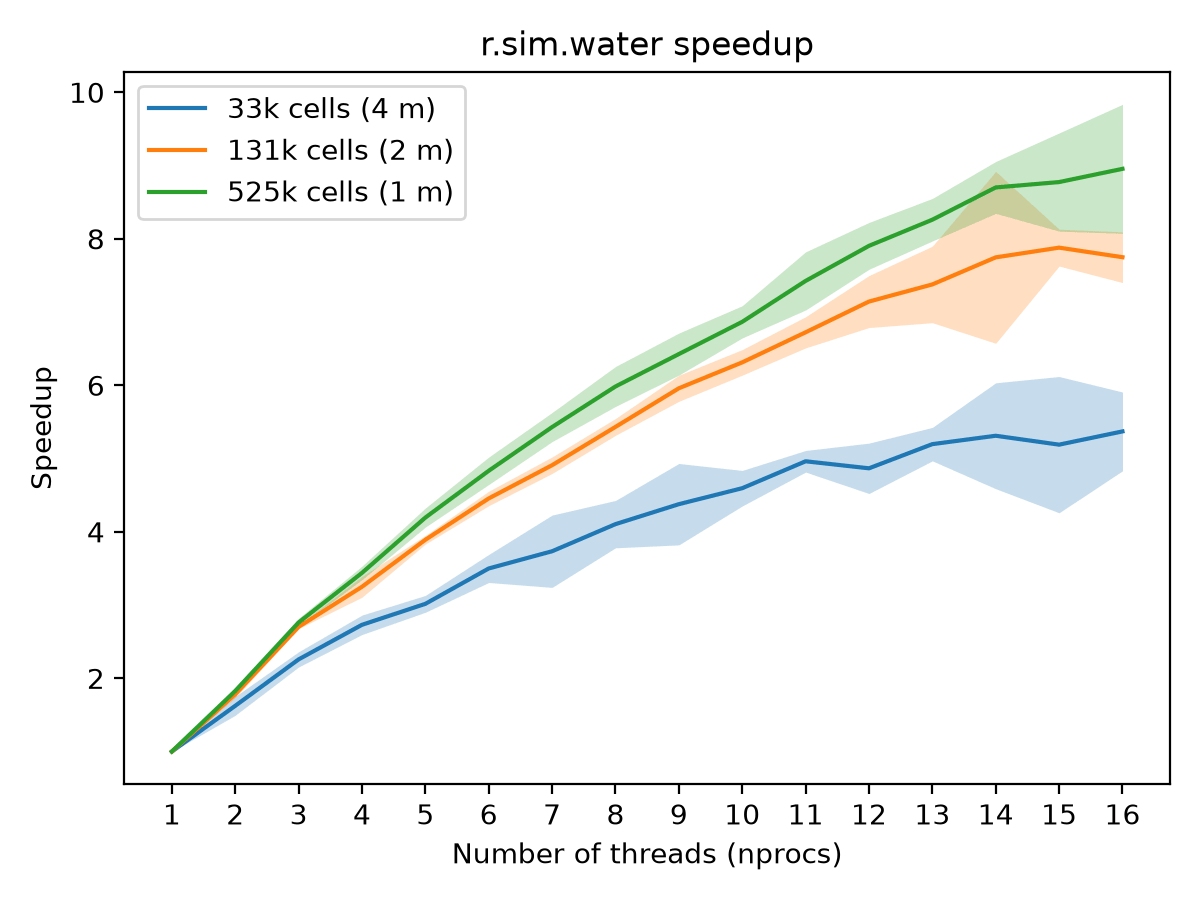
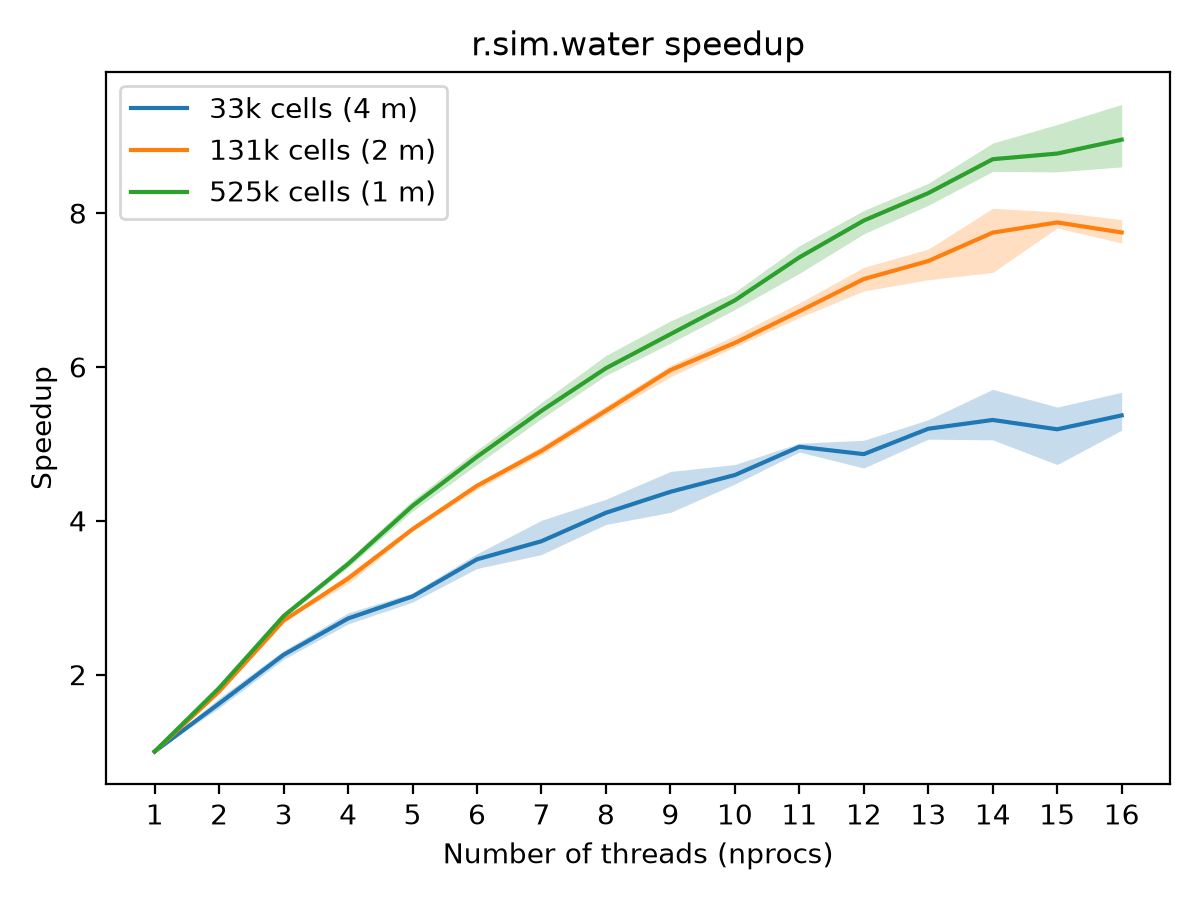
r.sim.water: Shade the range of the benchmark runs
With 3 runs per point, a confidence interval of the mean says more about
the t quantile than about the runs, so shade the range of the runs
instead: from the fastest to the slowest run for time, and over the
ratios of every serial run to every parallel run for speedup and
efficiency.

Drop the sentence that nprocs sets the number of threads, which the
parameter description already says.

Written with the help of Claude Code.

diff --git a/raster/r.sim/r.sim.water/r.sim.water.html b/raster/r.sim/r.sim.water/r.sim.water.html
@@ -168,8 +168,8 @@ there, and walkers that reach them leave the area. Null cells in the
 <b>infil</b> raster map mean no infiltration.
 
 <p>
-The number of threads is set by <b>nprocs</b>. The figures below show the
-execution time, parallel speedup and efficiency for the <code>elevation</code>
+The figures below show how the execution time, parallel speedup and
+efficiency change with the number of threads (<b>nprocs</b>) for the <code>elevation</code>
 raster map of the SECREF North Carolina dataset at 4 m, 2 m and 1 m
 resolution with the default number of walkers, as the mean of 3 runs on
 an Intel Xeon W-2295 CPU (18 cores). See the benchmark script in the
@@ -188,7 +188,7 @@ source code for details.
   <br>
   <i>Figure: Benchmark shows execution time, parallel speedup and
     efficiency for different numbers of cells (33k, 131k and 525k);
-    shading shows the 95 % confidence interval of the mean.</i>
+    shading shows the range of the 3 runs.</i>
 </div>
 
 <h3>Manning's n for surface roughness</h3>

diff --git a/raster/r.sim/r.sim.water/benchmark/benchmark_r_sim_water_nprocs.py b/raster/r.sim/r.sim.water/benchmark/benchmark_r_sim_water_nprocs.py
@@ -16,14 +16,13 @@ The plots and the results as JSON are written to the current directory.
 To redo the plots from saved results without running the benchmark, pass
 the JSON file as an argument.
 
-The plots show the mean of the repeated runs with a shaded 95 % confidence
-interval of the mean (Student's t). The interval of the speedup and of the
-efficiency combines the relative intervals of the two times divided.
+The plots show the mean of the repeated runs, shaded between the fastest
+and the slowest run. For speedup and efficiency, the shading spans the
+ratios of every serial run to every parallel run.
 
 @author Vaclav Petras
 """
 
-import math
 import statistics
 import sys
 from subprocess import DEVNULL
@@ -40,10 +39,6 @@ RESOLUTIONS = [4, 2, 1]
 MAX_NPROCS = 16
 REPEAT = 3
 
-# Two-sided 95 % quantiles of Student's t by the number of runs (degrees of
-# freedom plus one), to avoid depending on SciPy.
-T_QUANTILES = {2: 12.706, 3: 4.303, 4: 3.182, 5: 2.776, 6: 2.571, 7: 2.447}
-
 
 def main():
     if len(sys.argv) > 1:
@@ -56,17 +51,8 @@ def main():
     plot(results)
 
 
-def mean_and_half_width(times):
-    """Return the mean and the half width of its 95 % confidence interval"""
-    mean = statistics.mean(times)
-    if len(times) < 2:
-        return mean, 0
-    t = T_QUANTILES.get(len(times), 1.96)
-    return mean, t * statistics.stdev(times) / math.sqrt(len(times))
-
-
 def plot(results):
-    """Plot time, speedup and efficiency with confidence bands"""
+    """Plot time, speedup and efficiency with the range of the runs"""
     import matplotlib as mpl  # pylint: disable=import-outside-toplevel
 
     mpl.use("Agg")
@@ -80,27 +66,22 @@ def plot(results):
         # Twice the 600 pixels of the documentation, shown at half the size.
         fig, ax = plt.subplots(figsize=(6, 4.5), dpi=200)
         for result in results:
-            means, halves = zip(
-                *(mean_and_half_width(t) for t in result.all_times), strict=True
-            )
-            serial, serial_half = means[0], halves[0]
+            serial = result.all_times[0]
             values, lows, highs = [], [], []
-            for nprocs, mean, half in zip(result.nprocs, means, halves, strict=True):
+            for nprocs, times in zip(result.nprocs, result.all_times, strict=True):
                 if metric == "time":
-                    value, relative = mean, half / mean
-                else:
-                    value = serial / mean
+                    value, low, high = statistics.mean(times), min(times), max(times)
+                elif nprocs == 1:
                     # The speedup at one thread is 1 by definition.
-                    relative = (
-                        math.hypot(serial_half / serial, half / mean)
-                        if nprocs > 1
-                        else 0
-                    )
-                    if metric == "efficiency":
-                        value /= nprocs
+                    value = low = high = 1
+                else:
+                    value = statistics.mean(serial) / statistics.mean(times)
+                    low, high = min(serial) / max(times), max(serial) / min(times)
+                if metric == "efficiency":
+                    value, low, high = value / nprocs, low / nprocs, high / nprocs
                 values.append(value)
-                lows.append(value * (1 - relative))
-                highs.append(value * (1 + relative))
+                lows.append(low)
+                highs.append(high)
             (line,) = ax.plot(result.nprocs, values, label=result.label)
             ax.fill_between(
                 result.nprocs,

diff --git a/raster/r.sim/r.sim.water/r.sim.water.md b/raster/r.sim/r.sim.water/r.sim.water.md
@@ -156,8 +156,8 @@ raster maps are excluded from the simulation, the outputs are null
 there, and walkers that reach them leave the area. Null cells in the
 **infil** raster map mean no infiltration.
 
-The number of threads is set by **nprocs**. The figures below show the
-execution time, parallel speedup and efficiency for the `elevation`
+The figures below show how the execution time, parallel speedup and
+efficiency change with the number of threads (**nprocs**) for the `elevation`
 raster map of the SECREF North Carolina dataset at 4 m, 2 m and 1 m
 resolution with the default number of walkers, as the mean of 3 runs on
 an Intel Xeon W-2295 CPU (18 cores). See the benchmark script in the
@@ -168,7 +168,7 @@ source code for details.
 ![efficiency for r.sim.water with different numbers of cells](r_sim_water_benchmark_efficiency.png)  
 *Figure: Benchmark shows execution time, parallel speedup and efficiency
 for different numbers of cells (33k, 131k and 525k); shading shows the
-95 % confidence interval of the mean.*
+range of the 3 runs.*
 
 ### Manning's n for surface roughness
 
